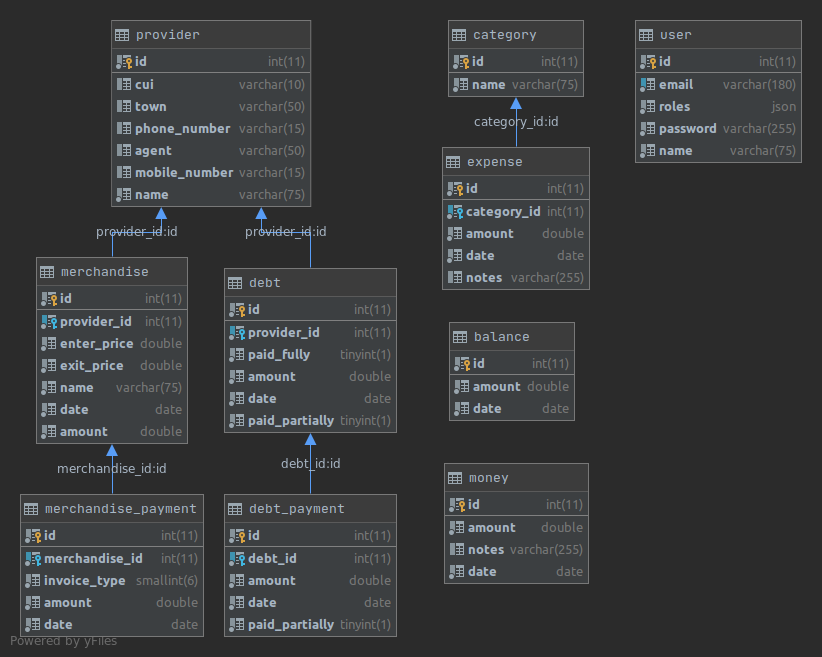
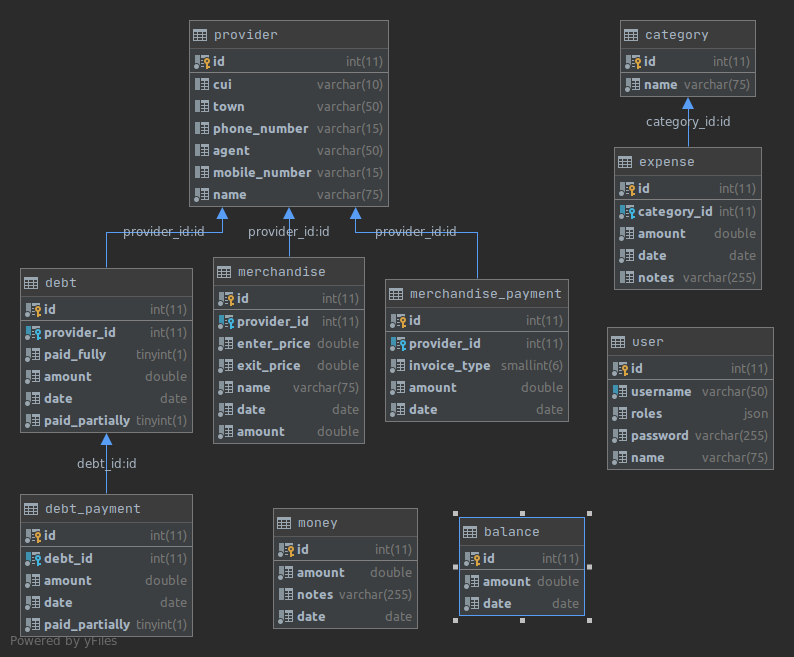
Finish migration

diff --git a/src/DataFixtures/MigrateFixtures.php b/src/DataFixtures/MigrateFixtures.php
@@ -4,7 +4,11 @@ namespace App\DataFixtures;
 
 use App\Entity\Balance;
 use App\Entity\Category;
+use App\Entity\Debt;
+use App\Entity\DebtPayment;
 use App\Entity\Expense;
+use App\Entity\Merchandise;
+use App\Entity\MerchandisePayment;
 use App\Entity\Money;
 use App\Entity\Provider;
 use App\Entity\User;
@@ -41,6 +45,10 @@ class MigrateFixtures extends Fixture implements FixtureGroupInterface
         $this->createUsers($manager);
 
         $this->migrateFurnizoriToProviders($manager);
+        $this->migrateDatoriiToDebt($manager);
+        $this->migrateIstoricPlatitToDebtPayment($manager);
+        $this->migrateIntrareMarfaToMerchandise($manager);
+        $this->migrateMarfaAchitataToMerchandisePayment($manager);
 
         $this->migrateSabloaneToCategories($manager);
         $this->migrateIesiriDiverseToExpenses($manager);
@@ -94,6 +102,104 @@ class MigrateFixtures extends Fixture implements FixtureGroupInterface
 
             $this->addReference('Provider'.$row['id'], $provider);
         }
+    }
+
+    private function migrateDatoriiToDebt(ObjectManager $manager)
+    {
+        $stmt = $this->conn->query('SELECT * FROM datorii');
+
+        foreach ($stmt->fetchAll() as $row) {
+            try {
+                $provider = $this->getReference('Provider' . $row['id_firma']);
+
+                $debt = new Debt();
+                $debt->setProvider($provider);
+                $debt->setAmount($row['suma']);
+                $debt->setDate(new \DateTime($row['data']));
+                $debt->setPaidFully($row['platit_integral'] == 1);
+                $debt->setPaidPartially($row['platit_partial'] == 1);
+
+                $manager->persist($debt);
+                $this->addReference('Debt'.$row['id'], $debt);
+            } catch (\OutOfBoundsException $e) {
+                print 'Datorii (Debt): ' . $e->getMessage() . "\n";
+            }
+        }
+    }
+
+    private function migrateIstoricPlatitToDebtPayment(ObjectManager $manager)
+    {
+        $stmt = $this->conn->query('SELECT * FROM istoric_plati');
+
+        foreach ($stmt->fetchAll() as $row) {
+            try {
+                $debt = $this->getReference('Debt' . $row['id_datorie']);
+
+                $payment = new DebtPayment();
+                $payment->setDebt($debt);
+                $payment->setAmount($row['suma']);
+                $payment->setDate(new \DateTime($row['data']));
+                $payment->setPaidPartially($row['plata_partial'] == 1);
+
+                $manager->persist($payment);
+            } catch (\OutOfBoundsException $e) {
+                print 'Istoric plati (DebtPayment): ' . $e->getMessage() . "\n";
+            }
+        }
+
+        $manager->flush();
+    }
+
+    private function migrateIntrareMarfaToMerchandise(ObjectManager $manager)
+    {
+        $stmt = $this->conn->query('SELECT * FROM intrare_marfa');
+
+        foreach ($stmt->fetchAll() as $row) {
+            try {
+                $provider = $this->getReference('Provider' . $row['id_firma']);
+
+                $merchandise = new Merchandise();
+                $merchandise->setProvider($provider);
+                $merchandise->setName($row['denumire']);
+                $merchandise->setAmount($row['cantitate']);
+                $merchandise->setDate(new \DateTime($row['data']));
+                $merchandise->setEnterPrice($row['pret_intrare']);
+                $merchandise->setExitPrice($row['pret_iesire']);
+
+                $manager->persist($merchandise);
+                $this->addReference('Merchandise-' . $this->merchandiseId($row), $merchandise);
+            } catch (\OutOfBoundsException $e) {
+                print 'Intrare marfa (MerchandisePayment): ' . $e->getMessage() . "\n";
+            }
+        }
+    }
+
+    private function migrateMarfaAchitataToMerchandisePayment(ObjectManager $manager)
+    {
+        $stmt = $this->conn->query('SELECT * FROM marfa_achitata');
+
+        foreach ($stmt->fetchAll() as $row) {
+            try {
+                $provider = $this->getReference('Provider' . $row['id_firma']);
+
+                $payment = new MerchandisePayment();
+                $payment->setProvider($provider);
+                $payment->setAmount($row['suma']);
+                $payment->setDate(new \DateTime($row['data']));
+                $payment->setInvoiceType($row['tip_factura']);
+
+                $manager->persist($payment);
+            } catch (\OutOfBoundsException $e) {
+                print 'Marfa achitate (MerchandisePayment): ' . $e->getMessage() . "\n";
+            }
+        }
+
+        $manager->flush();
+    }
+
+    private function merchandiseId($row)
+    {
+        return $row['id'] . '-' . $row['data'];
     }
 
     private function migrateSabloaneToCategories(ObjectManager $manager)
@@ -161,9 +267,6 @@ class MigrateFixtures extends Fixture implements FixtureGroupInterface
         }
     }
 
-    /**
-     * @return string[]
-     */
     public static function getGroups(): array
     {
         return ['migration'];

diff --git a/src/Entity/Provider.php b/src/Entity/Provider.php
@@ -20,6 +20,7 @@ class Provider
     {
         $this->debts = new ArrayCollection();
         $this->merchandises = new ArrayCollection();
+        $this->merchandisePayments = new ArrayCollection();
     }
 
     /**
@@ -56,6 +57,11 @@ class Provider
      * @ORM\OneToMany(targetEntity="App\Entity\Merchandise", mappedBy="provider")
      */
     private $merchandises;
+
+    /**
+     * @ORM\OneToMany(targetEntity="App\Entity\MerchandisePayment", mappedBy="provider")
+     */
+    private $merchandisePayments;
 
     public function getCui(): ?string
     {
@@ -173,6 +179,37 @@ class Provider
             // set the owning side to null (unless already changed)
             if ($merchandise->getProvider() === $this) {
                 $merchandise->setProvider(null);
+            }
+        }
+
+        return $this;
+    }
+
+    /**
+     * @return Collection|MerchandisePayment[]
+     */
+    public function getMerchandisePayments(): Collection
+    {
+        return $this->merchandisePayments;
+    }
+
+    public function addMerchandisePayment(MerchandisePayment $merchandisePayment): self
+    {
+        if (!$this->merchandisePayments->contains($merchandisePayment)) {
+            $this->merchandisePayments[] = $merchandisePayment;
+            $merchandisePayment->setProvider($this);
+        }
+
+        return $this;
+    }
+
+    public function removeMerchandisePayment(MerchandisePayment $merchandisePayment): self
+    {
+        if ($this->merchandisePayments->contains($merchandisePayment)) {
+            $this->merchandisePayments->removeElement($merchandisePayment);
+            // set the owning side to null (unless already changed)
+            if ($merchandisePayment->getProvider() === $this) {
+                $merchandisePayment->setProvider(null);
             }
         }
 

diff --git a/src/Entity/MerchandisePayment.php b/src/Entity/MerchandisePayment.php
@@ -17,27 +17,15 @@ class MerchandisePayment
     use DateTrait;
 
     /**
-     * @ORM\ManyToOne(targetEntity="App\Entity\Merchandise", inversedBy="merchandisePayments")
-     * @ORM\JoinColumn(nullable=false)
-     */
-    private $merchandise;
-
-    /**
      * @ORM\Column(type="smallint")
      */
     private $invoiceType;
 
-    public function getMerchandise(): ?Merchandise
-    {
-        return $this->merchandise;
-    }
-
-    public function setMerchandise(?Merchandise $merchandise): self
-    {
-        $this->merchandise = $merchandise;
-
-        return $this;
-    }
+    /**
+     * @ORM\ManyToOne(targetEntity="App\Entity\Provider", inversedBy="merchandisePayments")
+     * @ORM\JoinColumn(nullable=false)
+     */
+    private $provider;
 
     public function getInvoiceType(): ?int
     {
@@ -47,6 +35,18 @@ class MerchandisePayment
     public function setInvoiceType(int $invoiceType): self
     {
         $this->invoiceType = $invoiceType;
+
+        return $this;
+    }
+
+    public function getProvider(): ?Provider
+    {
+        return $this->provider;
+    }
+
+    public function setProvider(?Provider $provider): self
+    {
+        $this->provider = $provider;
 
         return $this;
     }
